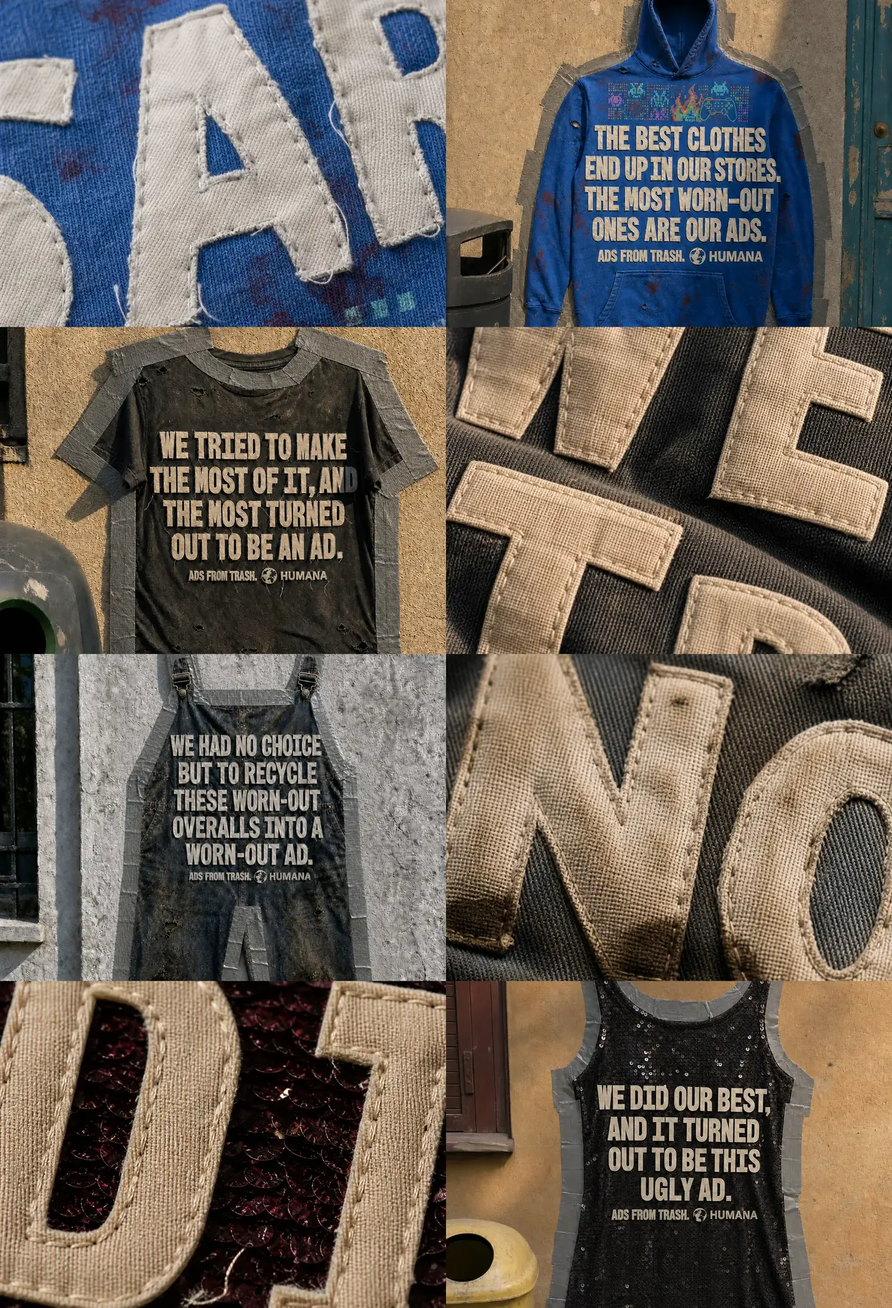
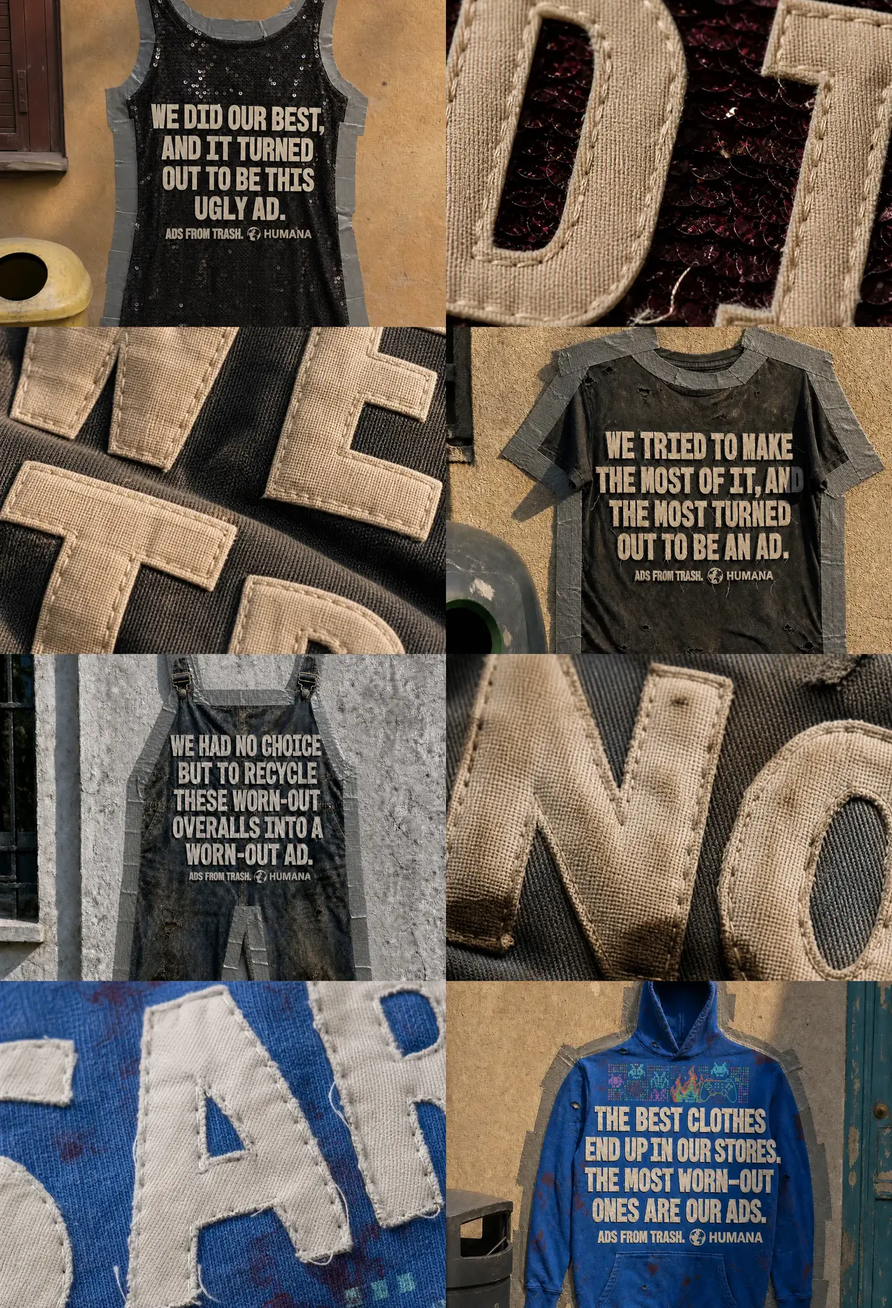
Rejilla reordenada, tres stickers distintos, bio completa sin scroll y menos camino hasta la primera pieza

diff --git a/index.html b/index.html
@@ -1620,7 +1620,12 @@
     const floorY = marks
       ? marks.getBoundingClientRect().top - 12   // a breath over the marks
       : top + stage.clientHeight;
-    const room = Math.max(0, floorY - top) - (cv
+    // Whichever is smaller: the space on the page down to the marks, and the
+    // box the writing actually lives in. Measured only against the marks, the
+    // verse was fitted to a room larger than its own container — the block
+    // then overflowed the box, which scrolls, and the C.V. sat just past its
+    // bottom edge. Present, painted, and needing a scroll to reach.
+    const room = Math.min(stage.clientHeight, Math.max(0, floorY - top)) - (cv
       ? cv.offsetHeight + (parseFloat(getComputedStyle(cv).marginTop) || 0)
       : 0);
     const colW = node.clientWidth;
@@ -1722,6 +1727,17 @@
     // — so there it takes the room instead, and its width follows from its own
     // proportion.
     const uprightH = narrow ? Math.round(H * 0.82) : flatH;
+
+    // The opening thumbnail is a title card, not a piece of the work, and on a
+    // phone every pixel of it is a pixel between the reader and the first
+    // execution. Held to a third of the column there.
+    if (narrow) {
+      const openH = Math.round(H * 0.34);
+      sc.querySelectorAll("img.opener").forEach((im) => {
+        im.style.height = openH + "px";
+        im.style.objectFit = "cover";
+      });
+    }
     sc.querySelectorAll("img.upright").forEach((im) => {
       if (uprightH > 0) im.style.height = uprightH + "px";
     });
@@ -1786,7 +1802,16 @@
 
     // The first and last rows each have to be able to sit in the middle, and
     // they are not the same height, so they do not get the same padding.
-    const padTop = Math.max(0, Math.round((H - heights[0]) / 2));
+    // The opening row is centred at rest, which on a wide screen is right: the
+    // campaign opens on its own name with air above and below. On a phone that
+    // air is half the column, and the first piece then sits a full screen
+    // down — the campaign opened on a thumbnail and you had to hunt for the
+    // work. There the opening row starts near the top instead. Not at it: the
+    // row nearest the middle is the one whose name is written at the foot, and
+    // pushed all the way up the opening row loses that to the piece below it.
+    const padTop = narrow
+      ? Math.min(40, Math.max(0, Math.round((H - heights[0]) / 2)))
+      : Math.max(0, Math.round((H - heights[0]) / 2));
     const padBottom = Math.max(0, Math.round((H - heights[heights.length - 1]) / 2));
     sc.style.paddingTop = padTop + "px";
     sc.style.paddingBottom = padBottom + "px";
